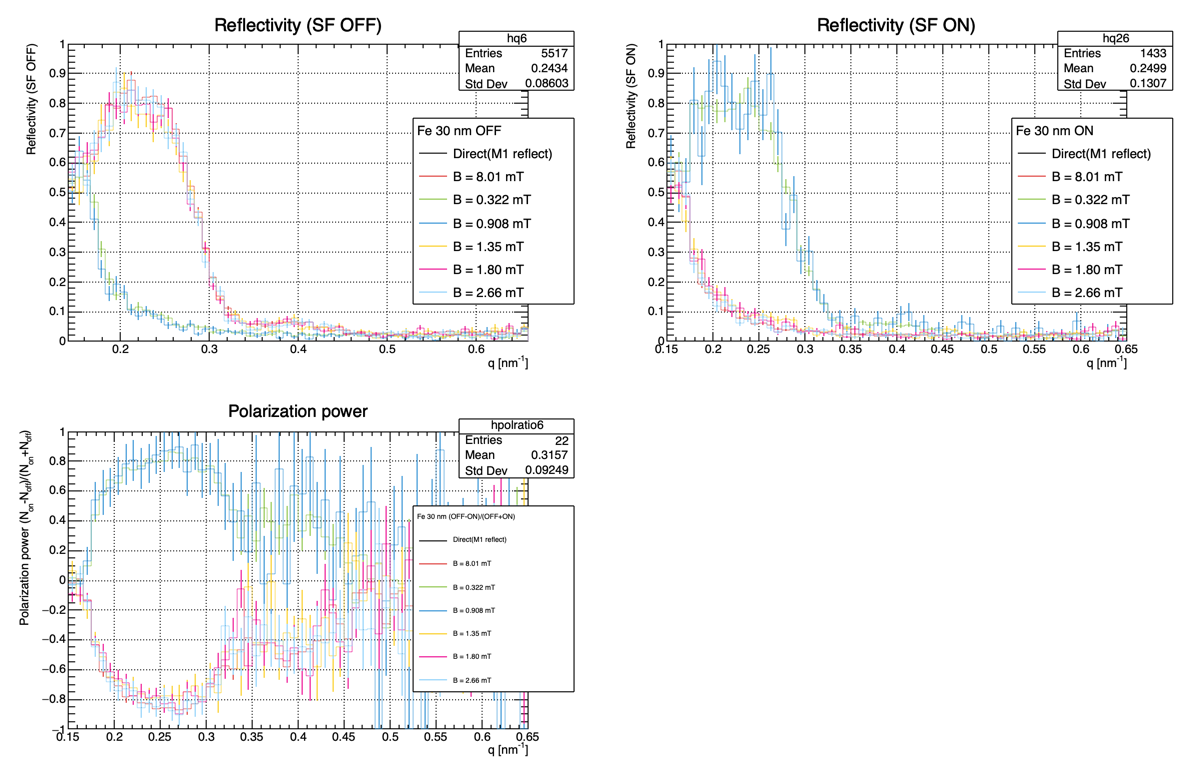
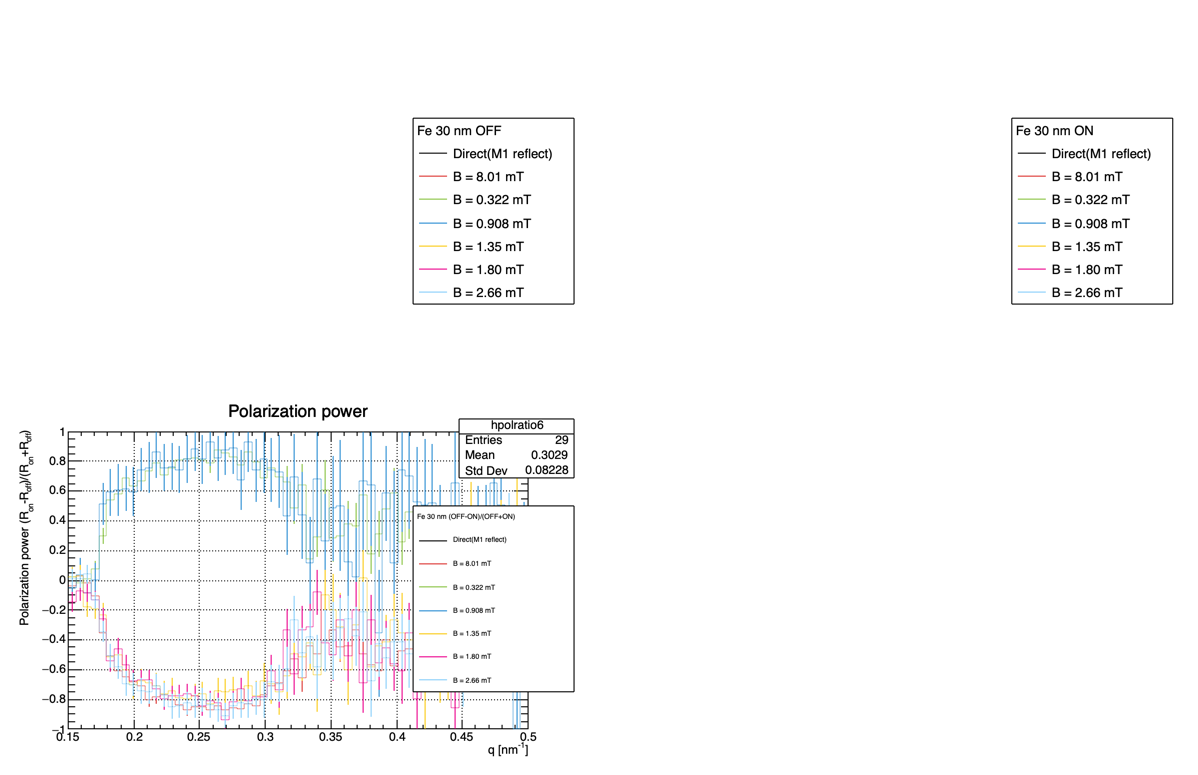
Edited Pol_Power4.C
- The x range of each plot was set to be [q_min, q_max]
- Export each histogram as separate root files (ll.342-343)

diff --git a/codes/simple/Pol_Power4.C b/codes/simple/Pol_Power4.C
@@ -143,7 +143,7 @@ Int_t Pol_Power4(){
   Double_t lambda_max  = 1.5;
   Double_t nbin_q  = 60;//300
   Double_t q_min  = 0.15;//0.6
-  Double_t q_max  = 0.65;//0.6
+  Double_t q_max  = 0.50;//0.6
   //Double_t q_max  = 1.0;//0.6
   Int_t nrebinx = 1;
   Int_t nrebiny = 2;
@@ -301,20 +301,30 @@ Int_t Pol_Power4(){
     leg->Draw();
  */  
     c1->cd(1);
+    if(i!=0){
     if(i==1)hq[i]->Draw("eh");
     else hq[i]->Draw("ehsames");
+    // if(i==1)hq[i]->Draw("ah");
+    // else hq[i]->Draw("ahsames");
     leg->Draw();
+    }
 
     c1->cd(2);
+    if(i!=0){
     if(i==1)hq2[i]->Draw("eh");
     else hq2[i]->Draw("ehsames");
+    // if(i==1)hq2[i]->Draw("ah");
+    // else hq2[i]->Draw("ahsames");
     leg2->Draw();
+    }
 
     c1->cd(3);
-    //if(i==0);
+    if(i!=0){
     if(i==1)hpolratio[i]->Draw("eh");
     else hpolratio[i]->Draw("ehsames");
     leg3->Draw();
+    }
+    
 /*
     c1->cd(3);
     if(i==1)hpolrhqtio[i]->Draw("eh");
@@ -322,18 +332,18 @@ Int_t Pol_Power4(){
     leg->Draw();
 */
     
-  
+    hpolratio[i]->GetXaxis()->SetRangeUser(q_min,q_max);
     hpolratio[i]->GetYaxis()->SetRangeUser(-1.,1.);
     hpolratio2[i]->GetYaxis()->SetRangeUser(-1.,1.);
-    hq[i]->GetYaxis()->SetRangeUser(0.1,0.9);
+    hq[i]->GetXaxis()->SetRangeUser(q_min,q_max);
     hq[i]->GetYaxis()->SetRangeUser(0.,1.);
+    hq2[i]->GetXaxis()->SetRangeUser(q_min,q_max);
     hq2[i]->GetYaxis()->SetRangeUser(0.,1.);
-    hq[i]->GetXaxis()->SetRangeUser(0.1,0.9);
-
+    hq[i]->SaveAs(path_R + Form("hq_off_%d.root", i));
+    hq2[i]->SaveAs(path_R + Form("hq_on_%d.root", i));
   }
-
-  c1->cd(1); gPad->SetGrid();//gPad->SetLogy();
-  c1->cd(2); gPad->SetGrid();//gPad->SetLogy();
+  c1->cd(1); gPad->SetGrid();gPad->SetLogy();
+  c1->cd(2); gPad->SetGrid();gPad->SetLogy();
   
   c1->cd(3); gPad->SetGrid();//gPad->SetLogy();
   // c1->cd(4); gPad->SetGrid();//gPad->SetLogy();
